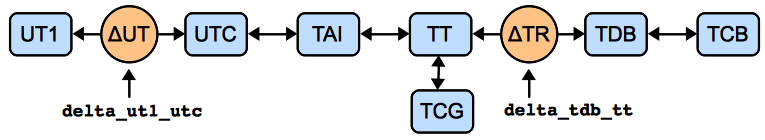
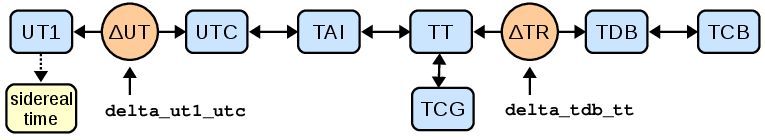
Add documentation

diff --git a/docs/time/index.rst b/docs/time/index.rst
@@ -6,15 +6,20 @@
 Time and Dates (`astropy.time`)
 ****************************************************
 
+.. |Quantity| replace:: :class:`~astropy.units.quantity.Quantity`
+.. |Longitude| replace:: :class:`~astropy.coordinates.angles.Longitude`
+.. |Latitude| replace:: :class:`~astropy.coordinates.angles.Latitude`
+
 Introduction
 ============
 
 The `astropy.time` package provides functionality for manipulating times and
-dates.  Specific emphasis is placed on supporting time scales (e.g. UTC, TAI, UT1) and
-time representations (e.g. JD, MJD, ISO 8601) that are used in astronomy.
+dates.  Specific emphasis is placed on supporting time scales (e.g. UTC, TAI,
+UT1, TDB) and time representations (e.g. JD, MJD, ISO 8601) that are used in
+astronomy and required to calculate, e.g., sidereal times and barycentric
+corrections.
 It uses Cython to wrap the C language `ERFA`_ time and calendar
-routines.  All time scale conversions are done by Cython vectorized versions
-of the `ERFA`_ routines and are fast and memory efficient.
+routines, using a fast and memory efficient vectorization scheme.
 
 All time manipulations and arithmetic operations are done internally using two
 64-bit floats to represent time.  Floating point algorithms from [#]_ are used so
@@ -34,7 +39,6 @@ object by supplying one or more input time values as well as the `time format`_ 
 In general any output values have the same shape (scalar or array) as the input.
 
   >>> from astropy.time import Time
-
   >>> times = ['1999-01-01 00:00:00.123456789', '2010-01-01 00:00:00']
   >>> t = Time(times, format='iso', scale='utc')
   >>> t
@@ -67,6 +71,20 @@ TT.  This uses the same attribute mechanism as above but now returns a new
 Note that both the ISO and JD representations of ``t2`` are different than for
 ``t`` because they are expressed relative to the TT time scale.
 
+Two further examples to give a taste of what is possible.  For details, read on!
+
+  >>> dt = t[1] - t[0]
+  >>> dt
+  <TimeDelta object: scale='tai' format='jd' value=4018.00002171925>
+  >>> t[0] + dt * np.linspace(0.,1.,12)
+  <Time object: scale='utc' format='iso' value=['1999-01-01 00:00:00.123' '2000-01-01 06:32:43.930'
+   '2000-12-31 13:05:27.737' '2001-12-31 19:38:11.544'
+   '2003-01-01 02:10:55.351' '2004-01-01 08:43:39.158'
+   '2004-12-31 15:16:22.965' '2005-12-31 21:49:06.772'
+   '2007-01-01 04:21:49.579' '2008-01-01 10:54:33.386'
+   '2008-12-31 17:27:17.193' '2010-01-01 00:00:00.000']>
+  >>> t.sidereal_time('apparent', 'greenwich')
+  <Longitude [ 6.68050179, 6.70281947] hourangle>
 
 Using `astropy.time`
 =====================
@@ -381,14 +399,21 @@ matching subformat is used.
   >>> Time('2000-01-01 02:03:04', scale='utc', out_subfmt='date*').iso
   '2000-01-01 02:03:04.000'
 
-lat and lon
-^^^^^^^^^^^^
+lon and lat
+^^^^^^^^^^^
 
-These optional parameters specify the observer latitude and longitude in
-decimal degrees.  They default to 0.0 and are used for time scales that are
-sensitive to observer position.  Currently the only time scale for which this
-applies is TDB, which relies on the ERFA routine ``eraDtdb`` to determine the
-time offset between TDB and TT.
+These optional parameters specify the observer East longitude and latitude
+using any form that can initialize a |Longitude| or |Latitude| in degrees.
+They are used for time scales that are sensitive to observer (currently,
+only TDB, which relies on the ERFA routine ``eraDtdb`` to determine the time
+offset between TDB and TT), as well as for sidereal time if no explicit
+longitude is given.
+
+  >>> t = Time('2001-03-22 00:01:44.732327132980', scale='utc', lon='120d')
+  >>> t.sidereal_time('apparent', 'greenwich')
+  <Longitude 12.00000000000... hourangle>
+  >>> t.sidereal_time('apparent')
+  <Longitude 20.00000000000... hourangle>
 
 Getting the Current Time
 ^^^^^^^^^^^^^^^^^^^^^^^^
@@ -407,11 +432,12 @@ The two should be very close to each other.
 Using Time objects
 -------------------
 
-There are three basic operations available with |Time| objects:
+There are four basic operations available with |Time| objects:
 
 - Get the representation of the time value(s) in a particular `time format`_.
 - Get a new time object for the same time value(s) but referenced to a different
   `time scale`_.
+- Get the `sidereal time`_ corresponding to a particular time value(s).
 - Do time arithmetic involving |Time| and/or |TimeDelta| objects.
 
 Get representation
@@ -465,8 +491,8 @@ Examples::
   >>> t.tai
   <Time object: scale='tai' format='iso' value=2010-01-01 00:00:34.000>
 
-In this process the ``format`` and other object attributes like ``lat``,
-``lon``, and ``precision`` are also propagated to the new object.
+In this process the ``format`` and other object attributes like ``lon``,
+``lat``, and ``precision`` are also propagated to the new object.
 
 
 As noted in the `Time object basics` section, a |Time| object is immutable and
@@ -511,12 +537,12 @@ predictions), and set :attr:`~astropy.time.Time.delta_ut1_utc` as described in
   >>> iers_a = IERS_A.open(iers_a_file)                     # doctest: +SKIP
   >>> t.delta_ut1_utc = t.get_delta_ut1_utc(iers_a)         # doctest: +SKIP
 
-In the case of the TDB to TT offset, most users need only provide the ``lat``
-and ``lon`` values when creating the |Time| object.  If the
+In the case of the TDB to TT offset, most users need only provide the ``lon``
+and ``lat`` values when creating the |Time| object.  If the
 :attr:`~astropy.time.Time.delta_tdb_tt` attribute is not explicitly set then
 the ERFA C-library routine ``eraDtdb`` will be used to compute the TDB to TT
-offset.  Note that ``lat`` and ``lon`` are initialized to 0.0 by default, so
-those defaults will be used if they are not provided.
+offset.  Note that if ``lon`` and ``lat`` are not explicitly initialized,
+values of 0.0 degrees for both will be used.
 
 The following code replicates an example in the `SOFA Time Scale and Calendar
 Tools <http://www.iausofa.org/2012_0301_C/sofa/sofa_ts_c.pdf>`_ document.  It
@@ -527,7 +553,7 @@ TT, UT1, UTC).  This requires auxilliary information (latitude and longitude).
   >>> lat = 19.48125
   >>> lon = -155.933222
   >>> t = Time('2006-01-15 21:24:37.5', format='iso', scale='utc',
-  ...          lat=lat, lon=lon, precision=6)
+  ...          lon=lon, lat=lat, precision=6)
   >>> t.utc.iso
   '2006-01-15 21:24:37.500000'
   >>> t.ut1.iso
@@ -542,6 +568,28 @@ TT, UT1, UTC).  This requires auxilliary information (latitude and longitude).
   '2006-01-15 21:25:42.683799'
   >>> t.tcb.iso
   '2006-01-15 21:25:56.893378'
+
+Sidereal Time
+-------------
+
+Apparent or mean sidereal time can be calculated using
+:meth:`~astropy.time.core.Time.sidereal_time`.  The method returns a |Longitude|
+with units of hourangle, which by default is for the longitude with which the
+|Time| object is initialized.  Like the scale transformations, ERFA C-library
+routines are used under the hood, which support calculations following
+different IAU resolutions.  Sample usage::
+
+  >>> t = Time('2006-01-15 21:24:37.5', scale='utc', lon='120d')
+  >>> t.sidereal_time('mean')
+  <Longitude 13.089521870640... hourangle>
+  >>> t.sidereal_time('apparent')
+  <Longitude 13.089503675087... hourangle>
+  >>> t.sidereal_time('apparent', 'greenwich')
+  <Longitude 5.089503675087... hourangle>
+  >>> t.sidereal_time('apparent', '-90d')
+  <Longitude 23.08950367508... hourangle>
+  >>> t.sidereal_time('apparent', '-90d', 'IAU1994')
+  <Longitude 23.08950365423... hourangle>
 
 Time Deltas
 -----------
@@ -605,10 +653,10 @@ Use of the |TimeDelta| object is easily illustrated in the few examples below::
 Interaction with Time-like Quantities
 -------------------------------------
 
-Where possible, `Quantity` objects with units of time are treated as TimeDelta
+Where possible, |Quantity| objects with units of time are treated as TimeDelta
 (though necessarily with lower precision). They can also be used as input in
 constructing |Time| and |TimeDelta| objects, and |TimeDelta| objects
-can be converted to `Quantity` objects of arbitrary units of time.
+can be converted to |Quantity| objects of arbitrary units of time.
 Usage is most easily illustrated by examples::
 
   >>> import astropy.units as u

diff --git a/CHANGES.rst b/CHANGES.rst
@@ -33,6 +33,8 @@ New Features
 - ``astropy.table``
 
 - ``astropy.time``
+  - Mean and apparent sidereal time can now be calculated using the
+    `sidereal_time` method.
 
 - ``astropy.units``
 
